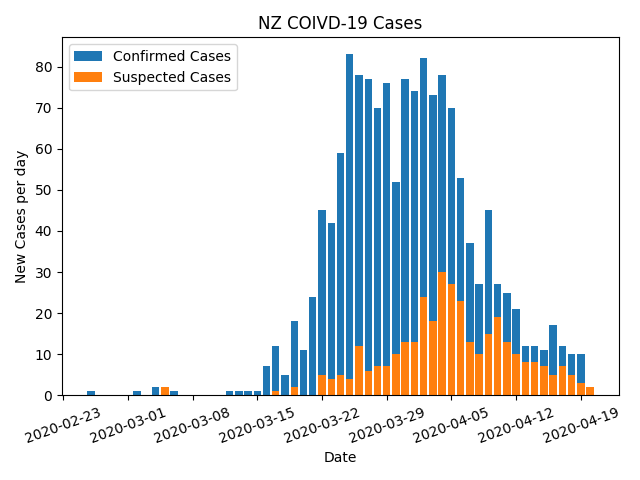
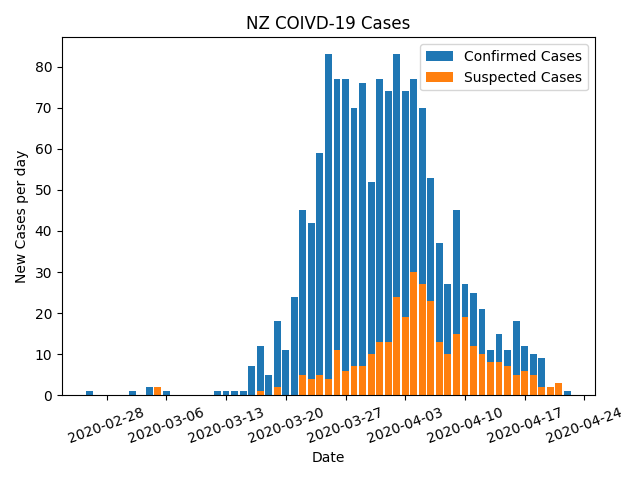
Updated data

Changed region(s): [[0.0312, 0.0938, 0.9688, 0.9688], [0.0938, 0.0938, 0.375, 0.1875], [0.375, 0.0312, 0.6562, 0.0625]]

diff --git a/NZModel/nz_data.py b/NZModel/nz_data.py
@@ -45,8 +45,8 @@ header=3
 #filename = "web-covid-confprob_20200418-2.xlsx"
 #filename = "covid-casedeatails-19april2020.xlsx"
 #filename = "covid-caselist-20april.xlsx"
-filename = "covid-casedetails-21april_0.xlsx"
-
+#filename = "covid-casedetails-21april_0.xlsx"
+filename = "covid-caselist-22april.xlsx"
 
 # The data keeps getting worse *sigh*
 def date_decoder(x):
